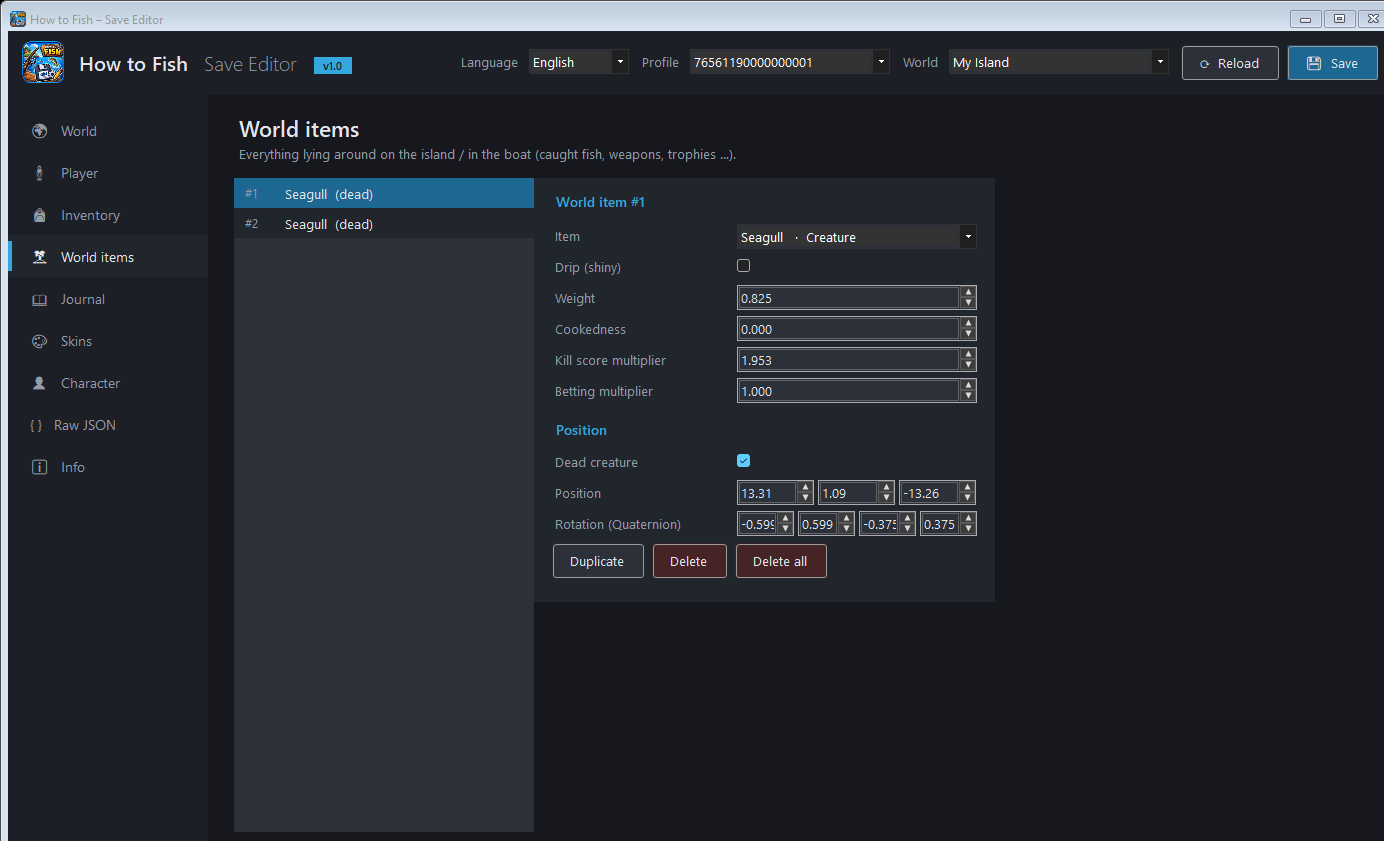
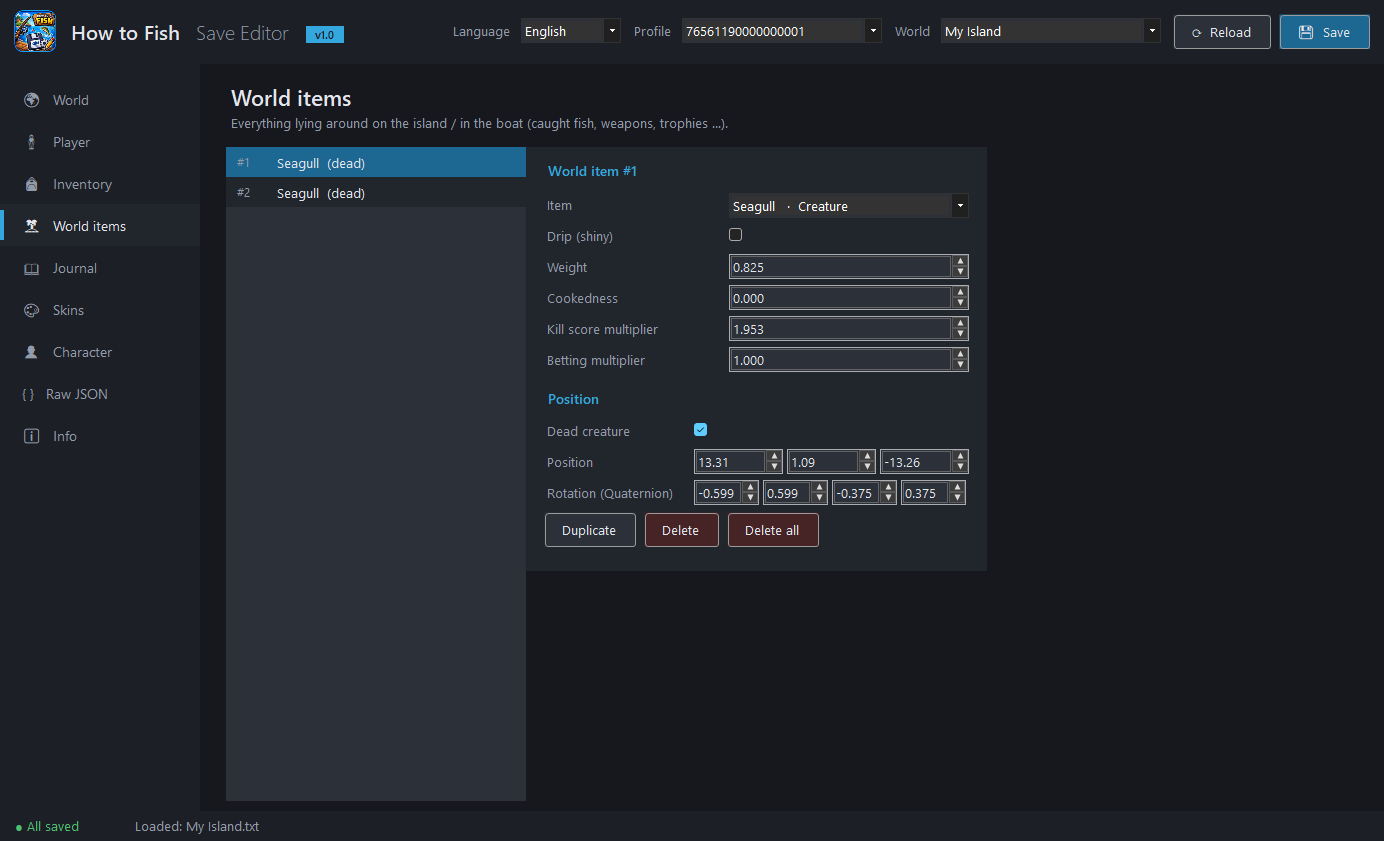
Dark title bar, clean client-area screenshots
- DWM immersive dark mode + caption/border color matching the header
- --shots crops DrawToBitmap output to the client area (no classic frame)
- vector boxes use the grid's field width; quaternion values no longer clipped

Changed region(s): [[0.0, 0.0, 1.0, 1.0], [0.5282, 0.2164, 0.6214, 0.4946], [0.6835, 0.2782, 0.7146, 0.4946]]

diff --git a/HowToFishSaveEditor/MainForm.cs b/HowToFishSaveEditor/MainForm.cs
@@ -78,6 +78,20 @@ public sealed class MainForm : Form
         Load += (_, _) => Init();
     }
 
+    [System.Runtime.InteropServices.DllImport("dwmapi.dll")]
+    private static extern int DwmSetWindowAttribute(IntPtr hwnd, int attr, ref int value, int size);
+
+    protected override void OnHandleCreated(EventArgs e)
+    {
+        base.OnHandleCreated(e);
+        // Dark title bar (Win10 1809+); caption/border color only on Win11, ignored elsewhere.
+        int on = 1, caption = ColorTranslator.ToWin32(Theme.Side), text = ColorTranslator.ToWin32(Theme.Text);
+        DwmSetWindowAttribute(Handle, 20, ref on, sizeof(int));      // DWMWA_USE_IMMERSIVE_DARK_MODE
+        DwmSetWindowAttribute(Handle, 35, ref caption, sizeof(int)); // DWMWA_CAPTION_COLOR
+        DwmSetWindowAttribute(Handle, 34, ref caption, sizeof(int)); // DWMWA_BORDER_COLOR
+        DwmSetWindowAttribute(Handle, 36, ref text, sizeof(int));    // DWMWA_TEXT_COLOR
+    }
+
     private static Label Caption() => new() { AutoSize = true, ForeColor = Theme.Muted, Margin = new Padding(10, 12, 6, 0) };
 
     private void AddNav(string icon, Func<string> title, bool needsWorld, bool needsLocal, Func<SaveContext, Page> create)
@@ -234,8 +248,12 @@ public sealed class MainForm : Form
 
         void Shot(string name)
         {
-            using var bmp = new Bitmap(ClientSize.Width, ClientSize.Height);
-            DrawToBitmap(bmp, new Rectangle(Point.Empty, ClientSize));
+            // DrawToBitmap renders the whole window incl. a classic frame – crop to the client area.
+            using var full = new Bitmap(Width, Height);
+            DrawToBitmap(full, new Rectangle(Point.Empty, Size));
+            var origin = PointToScreen(Point.Empty);
+            var client = new Rectangle(origin.X - Left, origin.Y - Top, ClientSize.Width, ClientSize.Height);
+            using var bmp = full.Clone(client, full.PixelFormat);
             bmp.Save(Path.Combine(ShotsDir, name + ".png"));
         }
 

diff --git a/HowToFishSaveEditor/Controls.cs b/HowToFishSaveEditor/Controls.cs
@@ -6,10 +6,12 @@ namespace HowToFishSaveEditor;
 public sealed class FieldGrid : TableLayoutPanel
 {
     private readonly Action _changed;
+    private readonly int _fieldWidth;
 
     public FieldGrid(Action changed, int labelWidth = 185, int fieldWidth = 240)
     {
         _changed = changed;
+        _fieldWidth = fieldWidth;
         ColumnCount = 2;
         AutoSize = true;
         AutoSizeMode = AutoSizeMode.GrowAndShrink;
@@ -143,7 +145,7 @@ public sealed class FieldGrid : TableLayoutPanel
     {
         var v = J.Obj(o, key);
         var flow = new FlowLayoutPanel { AutoSize = true, WrapContents = false, Margin = Padding.Empty, Padding = Padding.Empty, Height = 30 };
-        int w = (240 - (axes.Length - 1) * 4) / axes.Length;
+        int w = (_fieldWidth - (axes.Length - 1) * 4) / axes.Length;
         foreach (var a in axes)
         {
             var n = FloatBox(v, a, min, max, decimals);

diff --git a/HowToFishSaveEditor/Pages/WorldItemsPage.cs b/HowToFishSaveEditor/Pages/WorldItemsPage.cs
@@ -70,7 +70,8 @@ public sealed class WorldItemsPage : Page
             var item = J.Obj(wi, "Item", () => J.NewItem(20, 0));
             var stack = Ui.Stack(new ItemEditor(item, WorldChanged, () => _list.Invalidate()));
 
-            var g = new FieldGrid(WorldChanged);
+            // narrower labels, wider fields: same total width as the item editor, room for 4 quaternion boxes
+            var g = new FieldGrid(WorldChanged, 150, 275);
             g.Bool(T("Dead creature", "Tote Kreatur"), wi, "IsDeadCreature", T("Creature lies there dead (otherwise it is alive / flopping).", "Kreatur liegt tot herum (sonst zappelt / lebt sie)."), _ => _list.Invalidate());
             g.Vector("Position", wi, "Position", new[] { "x", "y", "z" }, -100000, 100000, 2);
             g.Vector("Rotation (Quaternion)", wi, "Rotation", new[] { "x", "y", "z", "w" }, -1, 1, 3);
